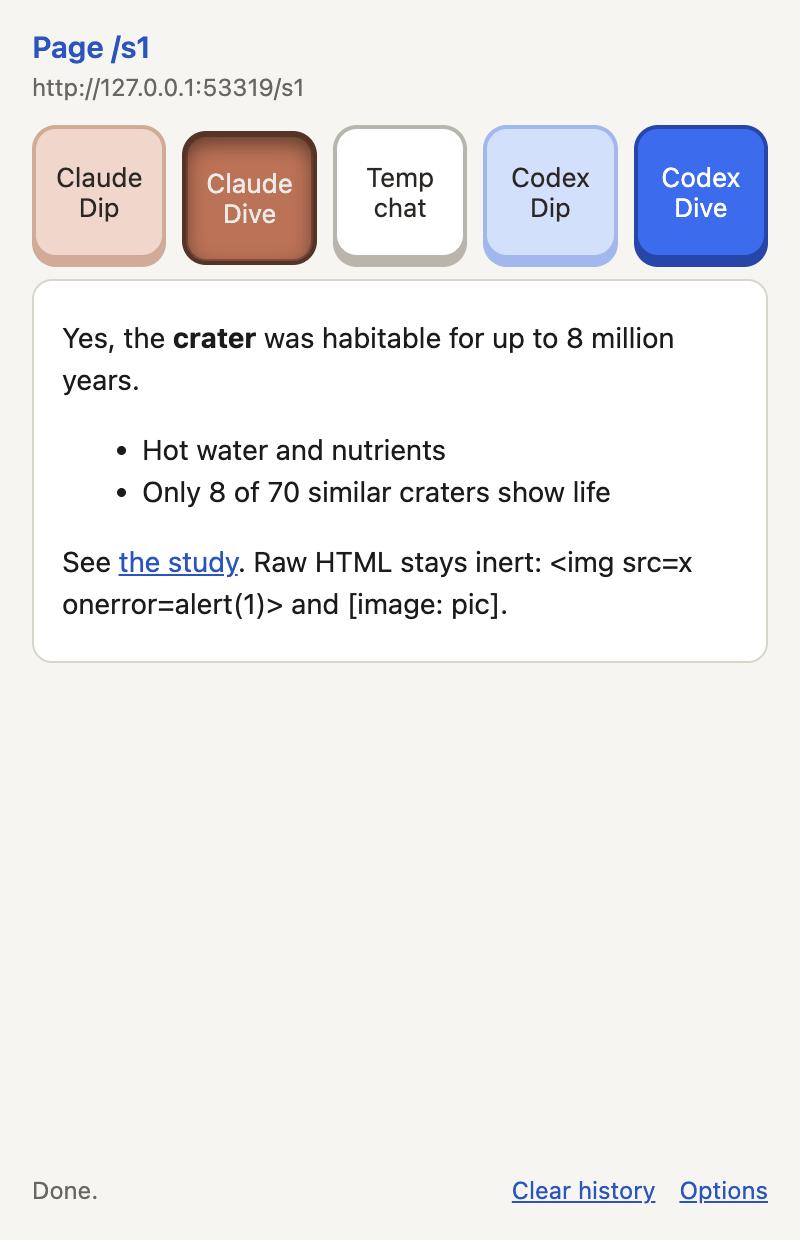
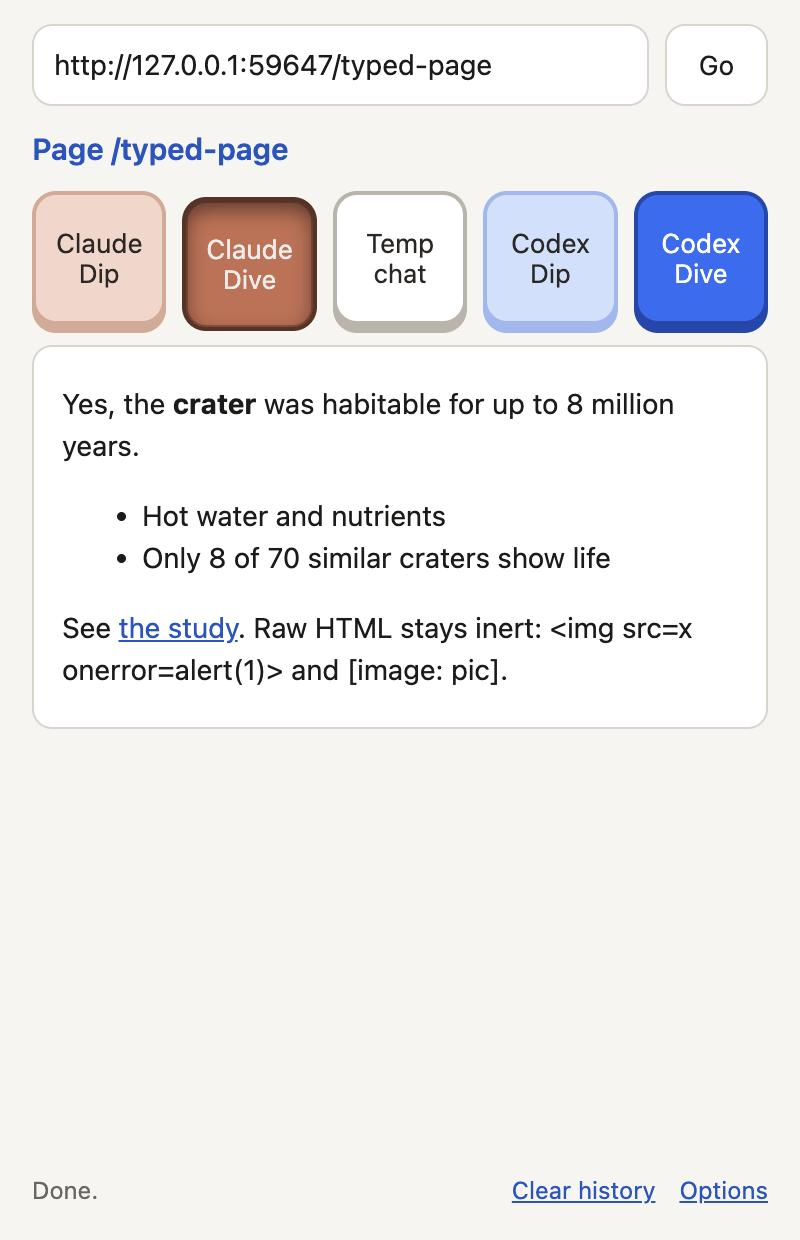
Panel URL field (paste a link, Go/Enter), empty-state hint, tests

Changed region(s): [[0.0312, 0.0306, 0.9688, 0.5516], [0.9375, 0.521, 0.9688, 0.5516], [0.875, 0.0306, 0.9062, 0.0613]]

diff --git a/extension/lib/controller.js b/extension/lib/controller.js
@@ -1,6 +1,7 @@
 // Side panel logic, DOM-free so it can be unit-tested (plan 3.1.5 to 3.1.9, 3.1.11).
 import { ApiError, request } from "./api.js";
 import { pruneSlots, slotKey } from "./background-core.js";
+import { normalizeTyped } from "./urls.js";
 import { DEFAULT_MODE, TEMP_CHAT_URL, TEMP_PREFIX, TEMP_WARN_CHARS, apiMode, normalizeMode } from "./modes.js";
 
 export const POLL_MS = 1500;
@@ -101,7 +102,7 @@ export class Controller {
   // New or changed slot. An unconsumed slot is submitted; a consumed one is resumed after a panel reopen.
   async onSlot(slot) {
     if (!slot || !slot.url) {
-      this.emit({ status: "Right-click a link or page and choose Dip'n'Dive." });
+      this.emit({ status: "Paste a link above and press Go, or right-click a link or page." });
       return;
     }
     const isNew = !this.slot || this.slot.requestId !== slot.requestId;
@@ -123,6 +124,20 @@ export class Controller {
     }
     this.emit({ mode });
     await this.submit(mode, { requestId: slot.requestId, force: false, fromSlot: true });
+  }
+
+  // The URL field: same path as a right-click. A fresh slot (new requestId) is written to this window's key and
+  // submitted by onSlot with this panel's own selected mode.
+  async submitTyped(text) {
+    if (!this.s.configured) { this.emit({ error: "Set the companion URL and token in the extension options." }); return false; }
+    const url = normalizeTyped(text);
+    if (!url) { this.emit({ error: "That does not look like a web link. Paste an http or https address." }); return false; }
+    this.emit({ error: null });
+    const slot = { url, requestId: this.d.uuid(), windowId: this.windowId, ts: Date.now(), consumed: false, pendingMode: this.s.mode };
+    await this.d.storage.set({ [slotKey(this.windowId)]: slot });
+    await pruneSlots(this.d.storage);
+    await this.onSlot(slot);
+    return true;
   }
 
   onStorageChange(changes, area) {

diff --git a/extension/panel.js b/extension/panel.js
@@ -21,6 +21,14 @@ for (const m of MODES) {
   buttons[m.id] = b;
 }
 
+let urlDirty = false;
+$("urlinput").addEventListener("input", () => { urlDirty = true; });
+$("urlform").addEventListener("submit", async (e) => {
+  e.preventDefault();
+  const ok = await ctl.submitTyped($("urlinput").value);
+  if (ok) { urlDirty = false; $("urlinput").blur(); }
+});
+
 function render(s) {
   for (const [id, b] of Object.entries(buttons)) {
     b.setAttribute("aria-pressed", String(id === s.mode));
@@ -35,7 +43,9 @@ function render(s) {
   t.textContent = s.title || (s.source ? s.source.url : "");
   t.hidden = !(s.title || s.source);
   if (href) t.href = href; else t.removeAttribute("href");
-  $("url").textContent = s.source ? s.source.url : "";
+  // The field keeps showing the current URL, unless the user is mid-edit.
+  if (!urlDirty && s.source && $("urlinput").value !== s.source.url) $("urlinput").value = s.source.url;
+  $("hint").hidden = !!s.source || !!s.error;
   $("result").innerHTML = s.mode === "temp" ? "" : s.result ? renderMarkdown(s.result) : "";
   $("copy").hidden = !(s.mode === "temp" && s.tempReady);
   $("warn").hidden = !(s.mode === "temp" && s.tempWarn);
@@ -70,3 +80,4 @@ chrome.storage.onChanged.addListener((c, a) => ctl.onStorageChange(c, a));
 
 const win = await chrome.windows.getCurrent();
 await ctl.init(win.id);
+if (!ctl.s.source) $("urlinput").focus(); // nothing pending: empty field, focused, with the hint showing

diff --git a/extension/panel.css b/extension/panel.css
@@ -22,6 +22,11 @@ body {
   padding: 12px 16px 16px; min-height: 100vh; display: flex; flex-direction: column; gap: 10px;
 }
 .muted { color: var(--muted); font-size: 12px; overflow-wrap: anywhere; }
+#urlform { display: flex; gap: 8px; }
+#urlinput { flex: 1; min-width: 0; padding: 9px 10px; font: inherit; border-radius: 10px; border: 1px solid var(--line); background: var(--card); color: var(--fg); }
+#urlinput:focus-visible { outline: 3px solid var(--link); outline-offset: 1px; }
+#go { padding: 0 16px; font: 600 14px inherit; font-family: inherit; border-radius: 10px; border: 1px solid var(--line); background: var(--card); color: var(--fg); cursor: pointer; }
+#go:active { transform: translateY(1px); }
 header #title { font-weight: 600; font-size: 15px; color: var(--link); text-decoration: none; overflow-wrap: anywhere; display: block; }
 header #title:not([href]) { color: var(--fg); }
 #buttons { display: grid; grid-template-columns: repeat(5, minmax(0, 1fr)); gap: 8px; }

diff --git a/extension/panel.html b/extension/panel.html
@@ -8,9 +8,13 @@
   <link rel="stylesheet" href="panel.css">
 </head>
 <body>
+  <form id="urlform" autocomplete="off">
+    <input id="urlinput" type="text" inputmode="url" placeholder="Paste a link" aria-label="Link to summarize" spellcheck="false" autocomplete="off">
+    <button id="go" type="submit">Go</button>
+  </form>
+  <div id="hint" class="muted" hidden>Paste a link above (Cmd+V or Ctrl+V) and press Go, or right-click any link or page.</div>
   <header>
     <a id="title" href="#" target="_blank" rel="noopener noreferrer" hidden></a>
-    <div id="url" class="muted"></div>
   </header>
   <div id="buttons" role="group" aria-label="Mode"></div>
   <div id="codexnote" class="reason" hidden></div>

diff --git a/extension/lib/urls.js b/extension/lib/urls.js
@@ -37,3 +37,12 @@ export function pickUrl(info) {
   if (info.pageUrl && isHttp(info.pageUrl)) return info.pageUrl;
   return null;
 }
+
+// A link typed or pasted into the panel's field. Bare hosts get https://; anything that is not an http(s) link is
+// refused (null). The companion does the real normalization (redirect unwrapping, video ids) for every source.
+export function normalizeTyped(text) {
+  let t = String(text ?? "").trim().replace(/^[<"'(]+|[>"')]+$/g, "").trim();
+  if (!t || /\s/.test(t)) return null;
+  if (!/^[a-z][a-z0-9+.-]*:/i.test(t) && /^[\w-]+(\.[\w-]+)+(:\d+)?([/?#]|$)/.test(t)) t = "https://" + t;
+  return isHttp(t) ? t : null;
+}

diff --git a/RESULTS.md b/RESULTS.md
@@ -163,3 +163,9 @@ Suites: Python 73 tests OK (`tests.test_regressions`, `tests.test_server`), node
 6. `codex-home/logs_2.sqlite` (the pending item from section 8): inspected a copy. The `logs` table has 0 rows, `state_5.sqlite` `threads` has 0 rows, and a text search of every file in codex-home (including the raw database and WAL files) found none of the prompt or source markers used in these runs (sourdough text, `ls ~`, TED and Paul Graham text, the prompt header, "NO COMMAND TOOL"). `--ephemeral` therefore keeps prompts out of codex-home. `/clear` does not need to cover it; re-check after a Codex version change.
 7. `/health` (computed against the real DipDive home): `codex_logged_in` true ("Logged in using ChatGPT"), `codex_isolation_ok` true, `codex_ready` true, `claude_logged_in` true. With Codex ready the panel falls back to Claude no longer: Codex Dip is the effective default again.
 8. Resolved PENDING items: 8.2 (injection test, passed), 8.7 (allowlist, observed types above), 8.17 (logs_2.sqlite, no text). Run the test again with `.venv/bin/python -m tests.codex_isolation` (2 Codex calls).
+
+## 12. URL field in the panel
+
+A single-line field ("Paste a link", Go button, Enter submits) sits above the five buttons and keeps showing the current source URL (unless the user is editing it). It uses the right-click path: the text is trimmed and checked (`normalizeTyped`: bare hosts get `https://`, anything that is not an http or https link is refused with a message and nothing is sent), then a fresh slot with a new requestId is written to this window's key (so it is restored and resumed like any slot) and submitted with this panel's own selected mode; the companion does the real normalization. With no pending request the panel shows the empty field, focused, with a one-line hint. No `clipboardRead` permission (paste with Cmd or Ctrl+V). The toolbar icon opens the panel on a never-used profile through `openPanelOnActionClick` (set at registration, no slot needed); that Chrome behavior is covered by a unit test of the registration only and still needs a look in real Chrome.
+
+Checked in the built-in pane against the dev harness: empty state (field focused, hint visible), a typed bare `host:port` became `https://...` and surfaced the companion's error, and a typed `http://` link submitted by Go produced the summary and title with the URL kept in the field. Node suite: 48 tests pass. `extension/docs/panel-light.jpg` regenerated. Note: a bare `host:port` is assumed to be https; plain-http addresses must be typed with `http://`.

diff --git a/README.md b/README.md
@@ -56,6 +56,6 @@ Source in `extension/` (Manifest V3, no build step, no CDN code, no content scri
 1. Permissions: `contextMenus`, `sidePanel`, `storage`, `clipboardWrite`; no always-on host access; `https://*.ts.net/*`, `http://127.0.0.1/*` and `localhost` are optional and the options page requests exactly the saved origin.
 2. Fixed extension ID `eokhjchjblklfkhcklpichdfjmmpcana` via the `key` in `manifest.json` (public key only). The PRIVATE key is `~/Library/Application Support/DipDive/extension-key.pem` (mode 0600, never in git). Keep it: it is needed to pack the extension later with the same ID.
 3. Layout: `background.js` plus `lib/background-core.js` (menu, URL precedence, per-window slots); `panel.html`, `panel.js`, `panel.css`, `lib/controller.js` (submission, polling, selection and clear generations, Temp chat); `lib/markdown.js` (bundled renderer, HTML escaped, images never rendered, http(s) links only); `lib/api.js` (5 s AbortController deadlines); `options.html` and `options.js`.
-4. Tests: `cd extension && node --test test/*.test.mjs` (40 tests: URL precedence, renderer safety, manifest and no-CDN checks, menu and click handler order with a mocked chrome, controller flows with a fake companion). Visual and flow check in a browser: `.venv/bin/python -m tests.dev_harness [port]` starts a real companion with faked model binaries plus a static and proxy server and prints a panel URL (`panel.html?base=...&token=...&url=...&mode=...`); the panel runs outside Chrome through `lib/shim.js`, which is inert inside the real extension. Screenshots: `extension/docs/panel-light.jpg`, `panel-dark.jpg`.
+4. Tests: `cd extension && node --test test/*.test.mjs` (48 tests: URL precedence, renderer safety, manifest and no-CDN checks, menu and click handler order with a mocked chrome, controller flows with a fake companion). Visual and flow check in a browser: `.venv/bin/python -m tests.dev_harness [port]` starts a real companion with faked model binaries plus a static and proxy server and prints a panel URL (`panel.html?base=...&token=...&url=...&mode=...`); the panel runs outside Chrome through `lib/shim.js`, which is inert inside the real extension. Screenshots: `extension/docs/panel-light.jpg`, `panel-dark.jpg`.
 
 Codex isolation re-test (2 real Codex calls): `.venv/bin/python -m tests.codex_isolation`. Last result: PASS on Codex 0.159.2 (no command tool exposed; see RESULTS section 11).
